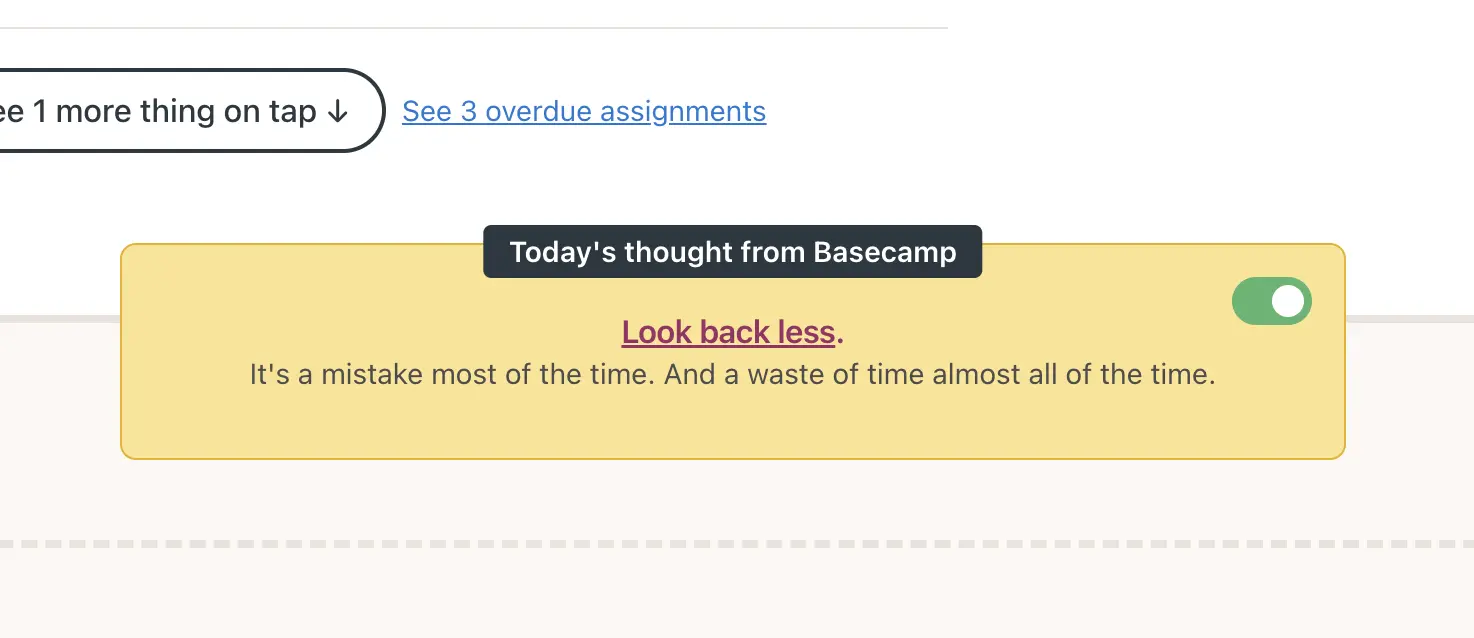
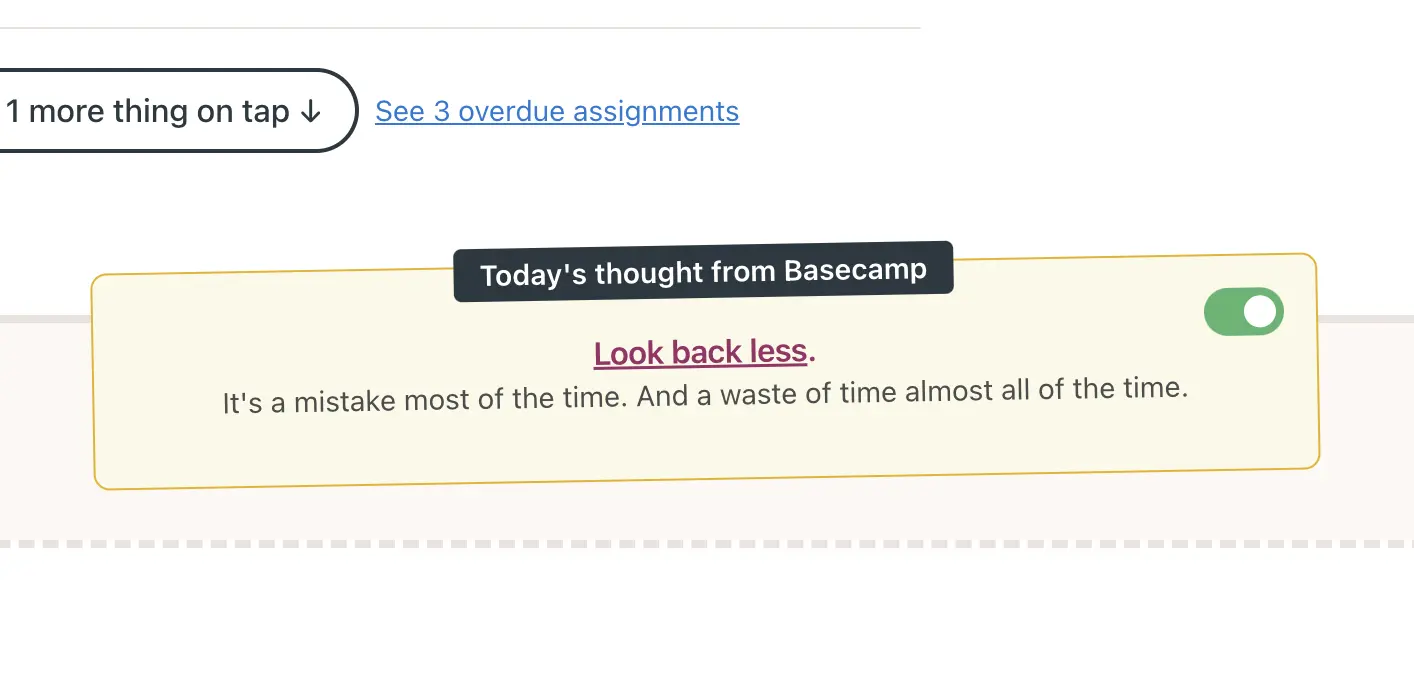
Welp. That's that.

diff --git a/app/assets/stylesheets/parent_basecamp.css b/app/assets/stylesheets/parent_basecamp.css
@@ -575,10 +575,11 @@ main {
   color: var(--color--pink-70);
   width: fit-content;
   max-width: 80%;
-  background-color: var(--color--yellow-30);
+  background-color: var(--color--yellow-10);
   border: 1px solid var(--color--yellow-50);
-  transform: translateY(-40px);
+  transform: translateY(-30px);
   border-radius: var(--border-radius--lg);
+  rotate: -1deg;
 }
 
 .thought__header {
